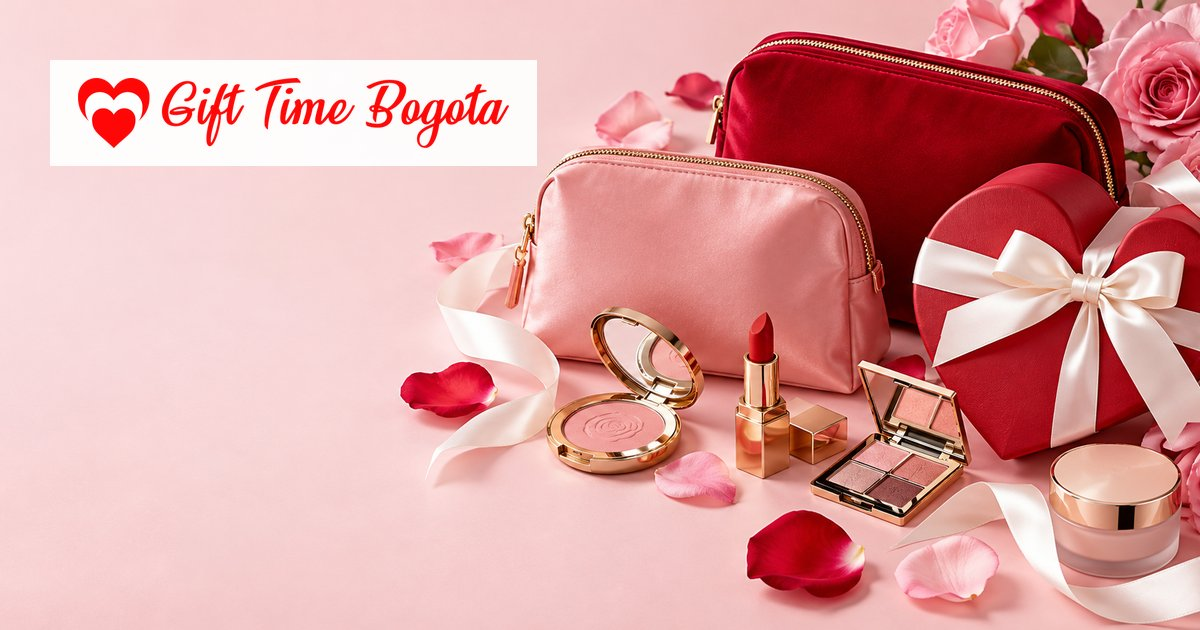
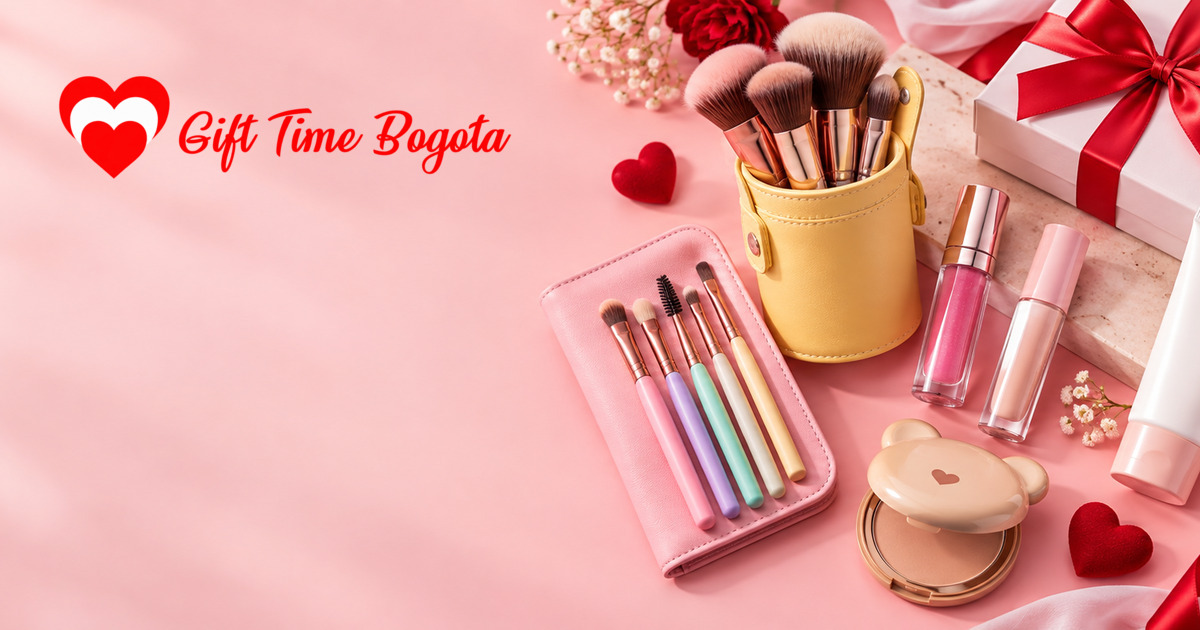
Add files via upload

diff --git a/index.html b/index.html
@@ -13,8 +13,12 @@
   <meta property="og:type" content="website">
   <meta property="og:title" content="Gift Time Bogotá | Detalles que hacen feliz">
   <meta property="og:description" content="Maquillaje, cuidado personal y regalos bonitos. Haz tu pedido por WhatsApp.">
-  <meta property="og:image" content="og-image.jpg">
+  <meta property="og:image" content="https://gifttimebogota.com.co/og-image.jpg?v=20260929">
+  <meta property="og:image:width" content="1200">
+  <meta property="og:image:height" content="630">
+  <meta property="og:url" content="https://gifttimebogota.com.co/">
   <meta name="twitter:card" content="summary_large_image">
+  <meta name="twitter:image" content="https://gifttimebogota.com.co/og-image.jpg?v=20260929">
   <title>Gift Time Bogotá | Detalles que hacen feliz</title>
   <style>
     :root{
